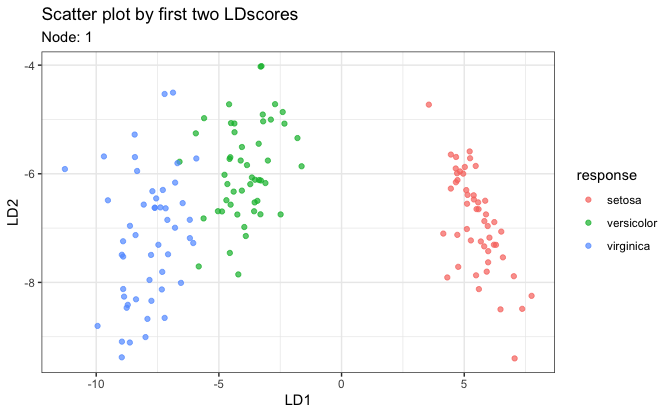
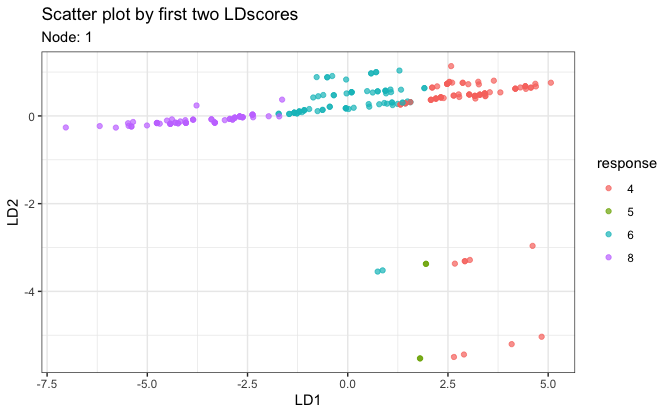
Update readme.md and add new demo
Iris is not very representative, use mpg from ggplot2 instead.

diff --git a/README.md b/README.md
@@ -39,11 +39,7 @@ following ways:
 
 ``` r
 install.packages("LDATree") # This version is an outdated one from 08/2023.
-#> Installing package into '/private/var/folders/v6/6s6mzmp9597f7sh0f8c_h_v00000gn/T/RtmpEP7Z2E/temp_libpath71d418079f55'
-#> (as 'lib' is unspecified)
-#> 
-#> The downloaded binary packages are in
-#>  /var/folders/v6/6s6mzmp9597f7sh0f8c_h_v00000gn/T//RtmpP0uiub/downloaded_packages
+
 # As of 06/2024, please use the command below for the current version,
 # the official CRAN release will be coming soon!
 
@@ -57,8 +53,11 @@ To build an LDATree:
 
 ``` r
 library(LDATree)
-set.seed(456)
-fit <- Treee(Species~., data = iris)
+set.seed(443)
+mpg <- as.data.frame(ggplot2::mpg)
+datX <- mpg[, -5] # All predictors without Y
+response <- mpg[, 5] # we try to predict "cyl" (number of cylinders)
+fit <- Treee(datX = datX, response = response, verbose = FALSE)
 ```
 
 To plot the LDATree:
@@ -73,7 +72,7 @@ plot(fit)
 ``` r
 # Three types of individual plots
 # 1. Scatter plot on first two LD scores
-plot(fit, data = iris, node = 1)
+plot(fit, datX = datX, response = response, node = 1)
 ```
 
 <img src="man/figures/README-plot2-1.png" width="80%" style="display: block; margin: auto;" />
@@ -81,10 +80,7 @@ plot(fit, data = iris, node = 1)
 ``` r
 
 # 2. Density plot on the first LD score
-plot(fit, data = iris, node = 3)
-#> Warning: Groups with fewer than two data points have been dropped.
-#> Warning in max(ids, na.rm = TRUE): no non-missing arguments to max; returning
-#> -Inf
+plot(fit, datX = datX, response = response, node = 3)
 ```
 
 <img src="man/figures/README-plot2-2.png" width="80%" style="display: block; margin: auto;" />
@@ -92,30 +88,30 @@ plot(fit, data = iris, node = 3)
 ``` r
 
 # 3. A message
-plot(fit, data = iris, node = 5)
-#> [1] "Every observation in this node is predicted to be virginica"
+plot(fit, datX = datX, response = response, node = 2)
+#> [1] "Every observation in this node is predicted to be 4"
 ```
 
 To make predictions:
 
 ``` r
 # Prediction only.
-predictions <- predict(fit, iris)
+predictions <- predict(fit, datX)
 head(predictions)
-#> [1] "setosa" "setosa" "setosa" "setosa" "setosa" "setosa"
+#> [1] "4" "4" "4" "4" "6" "6"
 ```
 
 ``` r
 # A more informative prediction
-predictions <- predict(fit, iris, type = "all")
+predictions <- predict(fit, datX, type = "all")
 head(predictions)
-#>   response node setosa versicolor virginica
-#> 1   setosa   13      0          0         0
-#> 2   setosa   13      0          0         0
-#> 3   setosa   13      0          0         0
-#> 4   setosa   13      0          0         0
-#> 5   setosa   13      0          0         0
-#> 6   setosa   13      0          0         0
+#>   response node 4 5 6 8
+#> 1        4   14 1 0 0 0
+#> 2        4    6 1 0 0 0
+#> 3        4    6 1 0 0 0
+#> 4        4    6 1 0 0 0
+#> 5        6   18 0 0 1 0
+#> 6        6   15 0 0 1 0
 ```
 
 ## Getting help
